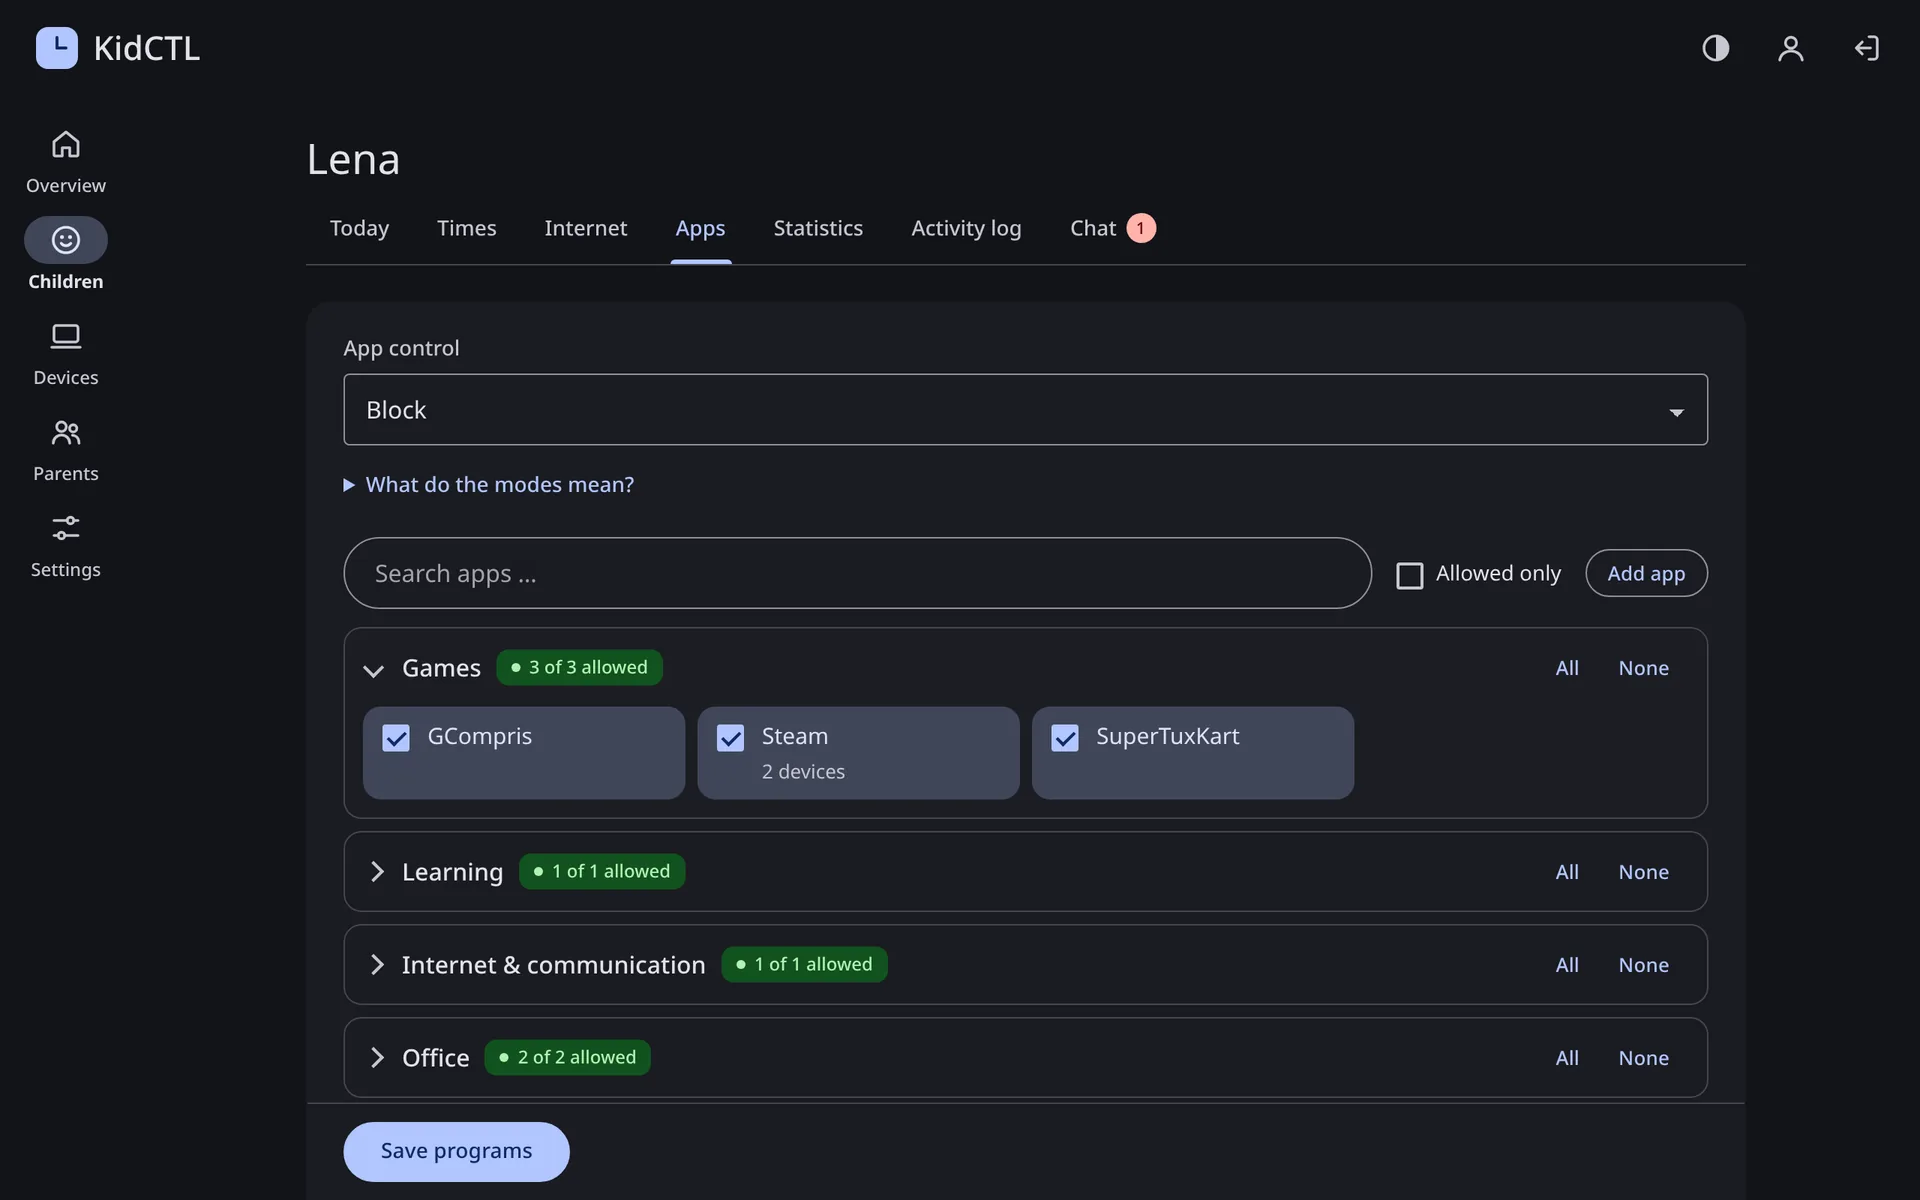
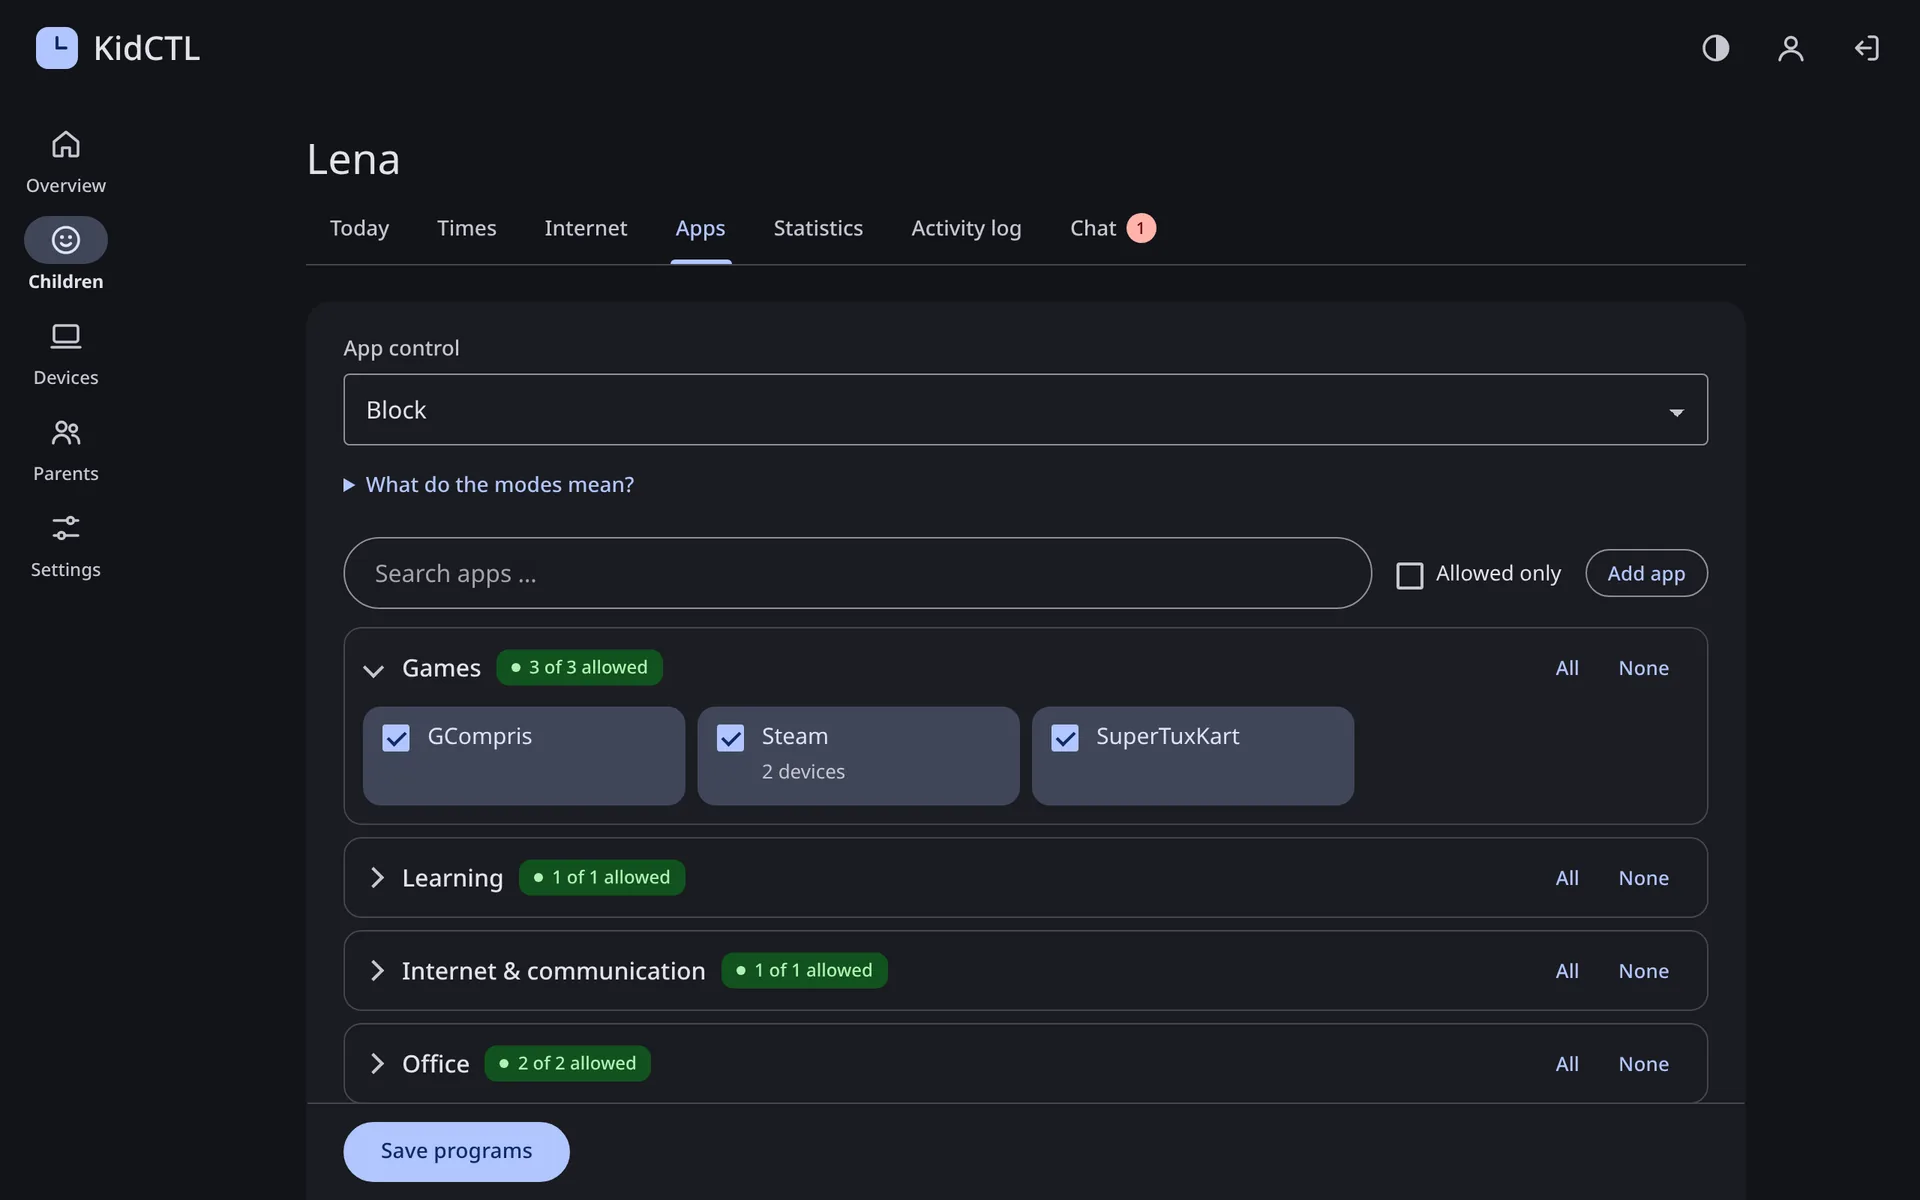
Version 0.45.1: Programmliste als Kacheln, Spiele unter „Spiele“, Rechnungsknöpfe mittig
- Programmliste: „Spiel“ und „Entfernen“ unter dem Namen statt daneben; lange
  Pfade eigener Programme bleiben lesbar, angehakte Spiele verschieben nichts
- Als Spiel markierte Apps (auch eigene Programme) stehen in der Gruppe „Spiele“
- Knöpfe neben Feldern mit Label mittig zum Feld (Rechnung: bezahlt, Storno, Senden)
- design-review legt eigene Programme mit langen Pfaden an; Skripte nehmen
  den Container aus KIDCTL_PG_CONTAINER
- Doku webui DE/EN, Screenshots der Programmseite

Changed region(s): [[0.1875, 0.6475, 0.875, 0.7708], [0.1875, 0.7708, 0.875, 0.925]]

diff --git a/server/app/templates/child_programme.html b/server/app/templates/child_programme.html
@@ -43,12 +43,14 @@
               <input type="checkbox" name="app" value="{{ app.key }}"{% if app.allowed %} checked{% endif %}>
               <span>{{ app.name }}<small>{{ app.key[4:] if app.key.startswith("exe:") else app.key }}</small></span>
             </label>
-            <label class="game-flag" title="{{ _('Zählt als Spiel (Spiele-Limit, Spielzeit)') }}">
-              <input type="checkbox" name="game" value="{{ app.key }}"{% if app.game %} checked{% endif %}> {{ _("Spiel") }}
-            </label>
-            <button type="submit" class="ghost small" formaction="/children/{{ child.id }}/programs/custom/{{ app.custom_id }}/delete"
-                    formnovalidate title="{{ _('Eintrag entfernen') }}" aria-label="{{ _('{name} entfernen').format(name=app.name) }}"
-                    data-confirm="{{ _('Eigenes Programm „{name}“ entfernen? Die Freigabe wird entzogen.').format(name=app.name) }}">{{ _("Entfernen") }}</button>
+            <div class="app-item-extra">
+              <label class="game-flag" title="{{ _('Zählt als Spiel (Spiele-Limit, Spielzeit)') }}">
+                <input type="checkbox" name="game" value="{{ app.key }}"{% if app.game %} checked{% endif %}> {{ _("Spiel") }}
+              </label>
+              <button type="submit" class="ghost small" formaction="/children/{{ child.id }}/programs/custom/{{ app.custom_id }}/delete"
+                      formnovalidate title="{{ _('Eintrag entfernen') }}" aria-label="{{ _('{name} entfernen').format(name=app.name) }}"
+                      data-confirm="{{ _('Eigenes Programm „{name}“ entfernen? Die Freigabe wird entzogen.').format(name=app.name) }}">{{ _("Entfernen") }}</button>
+            </div>
           </div>
           {% else %}
           <div class="app-item game-row" data-name="{{ app.name | lower }}">
@@ -56,9 +58,11 @@
               <input type="checkbox" name="app" value="{{ app.key }}"{% if app.allowed %} checked{% endif %}>
               <span>{{ app.name }}{% if app.missing %}<small>{{ _("nicht mehr installiert") }}</small>{% elif app.note %}<small>{{ app.note }}</small>{% elif app.devices > 1 %}<small>{{ _("{n} Geräte").format(n=app.devices) }}</small>{% endif %}</span>
             </label>
-            <label class="game-flag" title="{{ _('Kategorie „Spiele“ – zählt immer als Spiel') if app.game_auto else _('Zählt als Spiel (Spiele-Limit, Spielzeit)') }}">
-              <input type="checkbox" name="game" value="{{ app.key }}"{% if app.game %} checked{% endif %}{% if app.game_auto %} disabled{% endif %}> {{ _("Spiel") }}
-            </label>
+            <div class="app-item-extra">
+              <label class="game-flag" title="{{ _('Kategorie „Spiele“ – zählt immer als Spiel') if app.game_auto else _('Zählt als Spiel (Spiele-Limit, Spielzeit)') }}">
+                <input type="checkbox" name="game" value="{{ app.key }}"{% if app.game %} checked{% endif %}{% if app.game_auto %} disabled{% endif %}> {{ _("Spiel") }}
+              </label>
+            </div>
           </div>
           {% endif %}
           {% endfor %}

diff --git a/server/app/static/style.css b/server/app/static/style.css
@@ -457,9 +457,18 @@ body.no-nav .save-bar { bottom:0; }
 .app-options .option { padding:.5rem .75rem; }
 .app-item:not(:has(input[name="app"]:checked)) .game-flag, .game-flag:has(input:disabled) { display:none; }
 .app-toolbar { display:flex; align-items:center; gap:.625rem; flex-wrap:wrap; margin:.625rem 0 .75rem; }
-.custom-item, .game-row { display:flex; align-items:stretch; gap:.25rem; }
-.custom-item .option, .game-row .option { flex:1; min-width:0; }
-.custom-item .option small { overflow-wrap:anywhere; }
+/* Eine Kachel je Programm: Name oben, „Spiel“/„Entfernen“ darunter (vorher daneben – schmale Kacheln quetschten den
+   Namen auf wenige Buchstaben je Zeile). Die Kachel selbst trägt Rahmen und Auswahlfarbe. */
+.app-item { display:flex; flex-direction:column; min-width:0; border:1px solid var(--outline-variant); border-radius:var(--shape-md); }
+.app-item:has(input[name="app"]:checked) { border-color:transparent; background:var(--secondary-container); color:var(--on-secondary-container); }
+.app-item .option, .app-item .option:has(input:checked) { border:0; background:transparent; color:inherit; flex:1; }
+.app-item .option small { overflow-wrap:anywhere; }
+.app-item-extra { display:flex; align-items:center; justify-content:space-between; gap:.25rem .5rem; flex-wrap:wrap;
+                  padding:0 .25rem .25rem 2.625rem; }   /* bündig mit dem Namen rechts vom Kästchen */
+.app-item-extra:not(:has(.game-flag:not(:has(input:disabled)), button)),
+.app-item:not(:has(input[name="app"]:checked)) .app-item-extra:not(:has(button)) { display:none; }
+.app-item-extra .game-flag { padding:.25rem 0; min-height:32px; }
+.app-item-extra button { margin-left:auto; }
 .game-flag { display:flex; align-items:center; gap:.375rem; padding:0 .5rem; font-size:.8125rem; color:var(--on-surface-variant);
              white-space:nowrap; cursor:pointer; margin:0; }
 .game-flag:has(input:checked) { color:var(--on-surface); }
@@ -661,3 +670,5 @@ form > label.option, .mode-on > label.option { margin-bottom:1rem; }
 .p-80{--p:80%} .p-81{--p:81%} .p-82{--p:82%} .p-83{--p:83%} .p-84{--p:84%} .p-85{--p:85%} .p-86{--p:86%} .p-87{--p:87%} .p-88{--p:88%} .p-89{--p:89%}
 .p-90{--p:90%} .p-91{--p:91%} .p-92{--p:92%} .p-93{--p:93%} .p-94{--p:94%} .p-95{--p:95%} .p-96{--p:96%} .p-97{--p:97%} .p-98{--p:98%} .p-99{--p:99%}
 .p-100{--p:100%}
+/* Knöpfe (40 px) neben Feldern (48 px) mit Label darüber: mittig zum Feld statt bündig mit der Unterkante */
+.row.bottom > :is(button, .btn), .row.bottom > form > :is(button, .btn), form.row.inline > :is(button, .btn) { margin-bottom:4px; }

diff --git a/dev/design-review.py b/dev/design-review.py
@@ -35,7 +35,7 @@ REPO = Path(__file__).resolve().parent.parent
 sys.path.insert(0, str(REPO / "dev"))
 import demo_seed  # noqa: E402
 
-PG = "kidctl-pg"
+PG = os.environ.get("KIDCTL_PG_CONTAINER", "kidctl-pg")   # wie tests/podman_pg.sh
 DB_NAME = "kidctl_review"
 DATABASE_URL = f"postgresql+psycopg://kidctl:kidctl-dev@127.0.0.1:55432/{DB_NAME}"
 SIZES = {"mobile": (390, 844), "desktop": (1280, 800)}
@@ -154,8 +154,14 @@ async def admin_login(base: str, secret: str, lang: str) -> httpx.AsyncClient:
 
 
 async def extra_data(web, op: httpx.AsyncClient) -> dict:
-    """Ticket (Eltern) und Rechnungsentwurf (Verwaltung), damit die Detailseiten etwas zeigen."""
+    """Ticket (Eltern), eigene Programme mit langen Pfaden und Rechnungsentwurf (Verwaltung), damit die Detailseiten
+    auch schwierige Inhalte zeigen."""
     ids: dict = {}
+    for path, name in ((r"C:\Program Files\WindowsApps\Microsoft.GamingServices_39.118.30001.0_x64__8wekyb3d8bbwe"
+                        r"\GamingServicesUI\gamingservicesui.exe", ""),
+                       (r"C:\ProgramData\Battle.net\Agent\Agent.9886\Agent.exe", "Agent.exe"),
+                       ("/usr/bin/git", "Git")):
+        await web.post(f"/children/{web.ids['Lena']}/programs/custom", {"path": path, "name": name})
     r = await web.c.post("/support", data={"csrf_token": await web.csrf("/support"),
                                            "subject": "Gerät lässt sich nicht koppeln", "category": "tech",
                                            "body": "Der Kopplungscode wird nicht angenommen."})

diff --git a/server/tests/test_programs.py b/server/tests/test_programs.py
@@ -105,6 +105,24 @@ def test_catalog_grouped_by_category(client, parent):
         assert "0 von 2 erlaubt" in page and "Programm suchen" in page
 
 
+def test_games_listed_under_games():
+    """Als Spiel markierte Programme (auch eigene) stehen unter „Spiele“; nicht mehr installierte bleiben dort."""
+    from app.programs import CatalogEntry, grouped_catalog
+    E = CatalogEntry
+    groups = grouped_catalog([
+        E("exe:/usr/bin/firefox", "Firefox", 1, True, group="internet"),
+        E("exe:/usr/bin/hearthstone", "Hearthstone", 1, True, group="other", game=True),
+        E("exe:/usr/bin/supertux2", "SuperTux", 1, True, group="game", game=True, game_auto=True),
+        E("exe:C:\\WoT\\wot.exe", "World of Tanks", 1, True, custom_id=3, game=True),
+        E("exe:/usr/bin/git", "Git", 1, True, custom_id=4),
+        E("exe:/usr/bin/alt", "alt", 0, True, missing=True, game=True)])
+    assert [(g, [a.name for a in a_]) for g, _l, a_ in groups] == [
+        ("custom", ["Git"]),
+        ("game", ["Hearthstone", "SuperTux", "World of Tanks"]),
+        ("internet", ["Firefox"]),
+        ("missing", ["alt"])]
+
+
 def test_group_for_mapping():
     from app.programs import group_for
     assert group_for("Education;Science") == "education"

diff --git a/server/app/programs.py b/server/app/programs.py
@@ -93,11 +93,13 @@ def group_for(categories: str) -> str:
 
 
 def grouped_catalog(entries: list[CatalogEntry]) -> list[tuple[str, str, list[CatalogEntry]]]:
-    """(ID, Anzeige, Einträge) in fester Reihenfolge, leere Gruppen weggelassen."""
+    """(ID, Anzeige, Einträge) in fester Reihenfolge, leere Gruppen weggelassen. Als Spiel markierte Programme
+    (auch eigene) stehen unter „Spiele“, solange sie installiert sind."""
     order = ["custom"] + [gid for gid, _l, _c in GROUPS] + ["other", "missing"]
     by_group: dict[str, list[CatalogEntry]] = {}
     for e in entries:
-        by_group.setdefault("custom" if e.custom_id else "missing" if e.missing else e.group, []).append(e)
+        gid = "missing" if e.missing else "game" if e.game else "custom" if e.custom_id else e.group
+        by_group.setdefault(gid, []).append(e)
     for group in by_group.values():
         names = Counter(e.name for e in group)
         for e in group:

diff --git a/dev/screenshots.py b/dev/screenshots.py
@@ -36,7 +36,7 @@ sys.path.insert(0, str(REPO / "dev"))
 import demo_seed  # noqa: E402
 
 PORT = 8010
-PG = "kidctl-pg"
+PG = os.environ.get("KIDCTL_PG_CONTAINER", "kidctl-pg")   # wie tests/podman_pg.sh
 DB_NAME = "kidctl_shots"
 DATABASE_URL = f"postgresql+psycopg://kidctl:kidctl-dev@127.0.0.1:55432/{DB_NAME}"
 BASE = f"http://127.0.0.1:{PORT}"

diff --git a/agent/kidctl_agent/__init__.py b/agent/kidctl_agent/__init__.py
@@ -1,3 +1,3 @@
 """kidctl Root-Agent: Bildschirmzeit-Durchsetzung auf dem Kinderrechner."""
 
-__version__ = "0.45.0"
+__version__ = "0.45.1"

diff --git a/spec.md b/spec.md
@@ -297,7 +297,8 @@ Abweichungen stehen hier und unter „Restlücken“.
   - Tray: letzte Minute Spielzeit als Fenster im Vordergrund mit „Mehr Spielzeit anfragen“ (`TrayState.gaming`).
   - **Neu, für alle Plattformen:** Schalter „zählt als Spiel“ je Kind und App in der Programmliste (Tabelle
     `child_game_app`, `ChildPolicy.game_apps`); Apps der Kategorie „Spiele“ sind fest markiert. Der Agent (Linux
-    und Windows) prüft Spiele je Kind (`AgentCore.is_game`).
+    und Windows) prüft Spiele je Kind (`AgentCore.is_game`). Markierte Apps (auch eigene Programme) zeigt die
+    Programmliste in der Gruppe „Spiele“ (ab 0.45.1; nicht mehr installierte bleiben unter „Nicht mehr installiert“).
 - **Spielerkennung erweitert (entschieden 2026-11-19 per /grill-me):**
   - **Auslöser:** Ein über Steam gestartetes Spiel wurde unter Windows nicht als Spiel erkannt (keine Spielzeit,
     kein Spiele-Limit). Ursache zuerst in der VM nachstellen und beheben (Kandidaten: Index nur beim
@@ -3401,3 +3402,24 @@ Windows in „Architektur → Windows“ („Restlücken – Hintergrund (Window
   je Programm/Kategorie, „zählt nicht“-Programme, Zeitkonto; 0.48 Aufgaben → Zeit verdienen, Weich-Modus, Alarmkanäle
   ntfy/Webhook/Matrix, Cinnamon/COSMIC. Plan in `dev/planung/PLAN-2026-11.md`, Roadmap der Website ergänzt. Keine
   Umsetzung; geprüft: Doku-Parität und Hugo-Build.
+- 2026-11-22: Version 0.45.1 (Server): Programmliste und Rechnungsaktionen nachgebessert (Rückmeldung Adrian zu
+  Bildern aus dem echten Betrieb).
+  - Programmliste: Jede App ist eine Kachel, „Spiel“ und „Entfernen“ stehen unter dem Namen statt daneben. Vorher
+    quetschten sie den Namen und lange Pfade eigener Programme auf wenige Buchstaben je Zeile, und angehakte Spiele
+    machten ihre Kachel schmaler als die übrigen.
+  - Als Spiel markierte Apps (auch eigene Programme) stehen in der Gruppe „Spiele“ (`programs.grouped_catalog`).
+  - Knöpfe neben Feldern mit Label darüber (`.row.bottom`, `form.row.inline`) sitzen mittig zum Feld statt an
+    dessen Unterkante (Rechnung: „Als bezahlt markieren“, „Stornieren“, „Erneut senden“).
+  - `dev/design-review.py` legt zusätzlich eigene Programme mit langen Windows-Pfaden an; `dev/design-review.py` und
+    `dev/screenshots.py` nehmen den Container aus `KIDCTL_PG_CONTAINER` (wie die Tests).
+  - Doku `webui*.md`: Kästchen „Spiel“ unter der App, markierte Apps in „Spiele“.
+
+  Getestet:
+  - Server-Tests 361 grün, neu `test_games_listed_under_games` (markierte und eigene Apps unter „Spiele“, nicht mehr
+    installierte bleiben dort, eigene ohne Markierung unter „Eigene Programme“).
+  - `dev/design-review.py --only child-programs` (DE, hell/dunkel, mobil/Desktop): Kacheln mit langen Pfaden lesbar,
+    keine Konsolenfehler, kein waagerechtes Scrollen.
+  - Rechnungsaktionen mit der echten `style.css` in Chromium nachgebaut: Datumsfeld und alle drei Knöpfe auf
+    derselben Mittellinie (gemessen).
+  - Wegen fehlender Kernel-Module (`tun`) nach Kernel-Update lief PostgreSQL in einem temporären Container
+    `kidctl-pg-tmp` im Host-Netz (`KIDCTL_PG_CONTAINER=kidctl-pg-tmp`).

diff --git a/docs/webui.de.md b/docs/webui.de.md
@@ -7,8 +7,9 @@ Je Kind (Seite des Kindes):
 - **Spiele-Limit** („davon Spiele“ in der Wochenvorlage): höchstens so viele Minuten Spiele am Tag
   (Steam, Heroic und Programme der Gruppe „Spiele“, nicht die Launcher; siehe [Spiele](games.de.md)). Vorwarnung 5 und 1 Minute
   vorher, danach werden Spiele geschlossen; der restliche Rechner bleibt nutzbar. Leer = kein Limit.
-  Weitere Apps zählen als Spiel, wenn in der Programmliste das Kästchen „Spiel“ neben der App angehakt ist
-  (z. B. Roblox oder der Minecraft-Launcher; Apps der Gruppe „Spiele“ sind immer Spiele).
+  Weitere Apps zählen als Spiel, wenn in der Programmliste das Kästchen „Spiel“ unter der App angehakt ist
+  (z. B. Roblox oder der Minecraft-Launcher; Apps der Gruppe „Spiele“ sind immer Spiele). Nach dem Speichern stehen
+  so markierte Apps – auch eigene Programme – in der Gruppe „Spiele“.
 
   ![Wochenvorlage mit Zeitfenstern und „davon Spiele“](img/de/game-limit.webp)
 

diff --git a/docs/webui.md b/docs/webui.md
@@ -7,8 +7,9 @@ Per child (the child's page):
 - **Game limit** ("of which games" in the weekly schedule): at most this many minutes of games per day
   (Steam, Heroic and apps in the "Games" group, not the launchers; see [Games](games.md)). Warnings 5 and 1 minute
   before, then games are closed; the rest of the computer stays usable. Empty = no limit.
-  Further apps count as games if the "Game" box next to the app is ticked in the app list
-  (e.g. Roblox or the Minecraft launcher; apps in the "Games" group are always games).
+  Further apps count as games if the "Game" box below the app is ticked in the app list
+  (e.g. Roblox or the Minecraft launcher; apps in the "Games" group are always games). After saving, apps marked
+  this way – including custom programs – are listed in the "Games" group.
 
   ![Weekly schedule with allowed hours and "of which games"](img/en/game-limit.webp)
 
